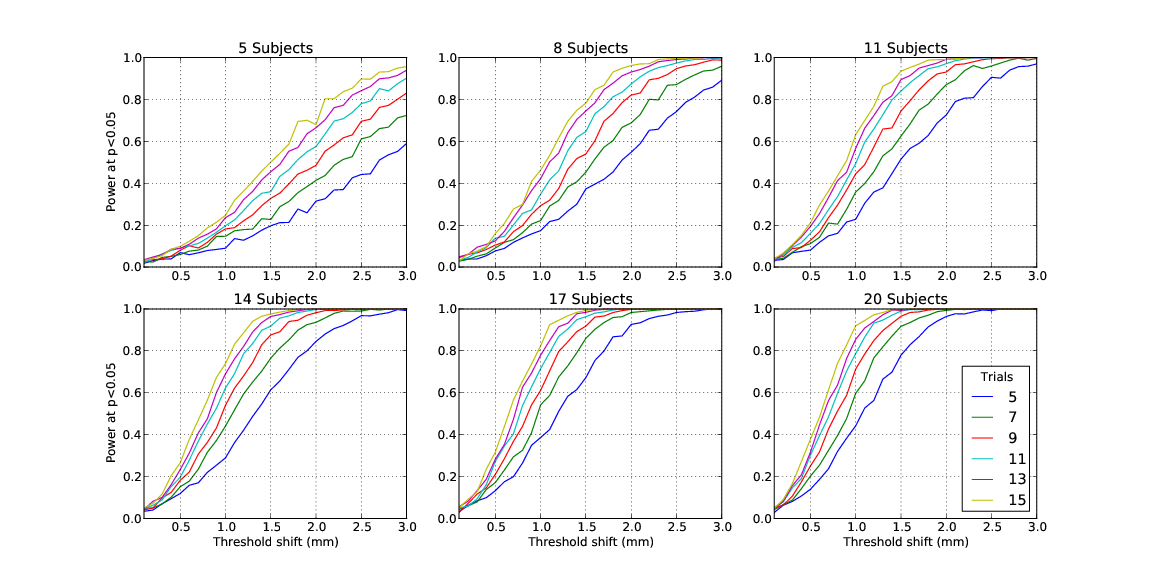
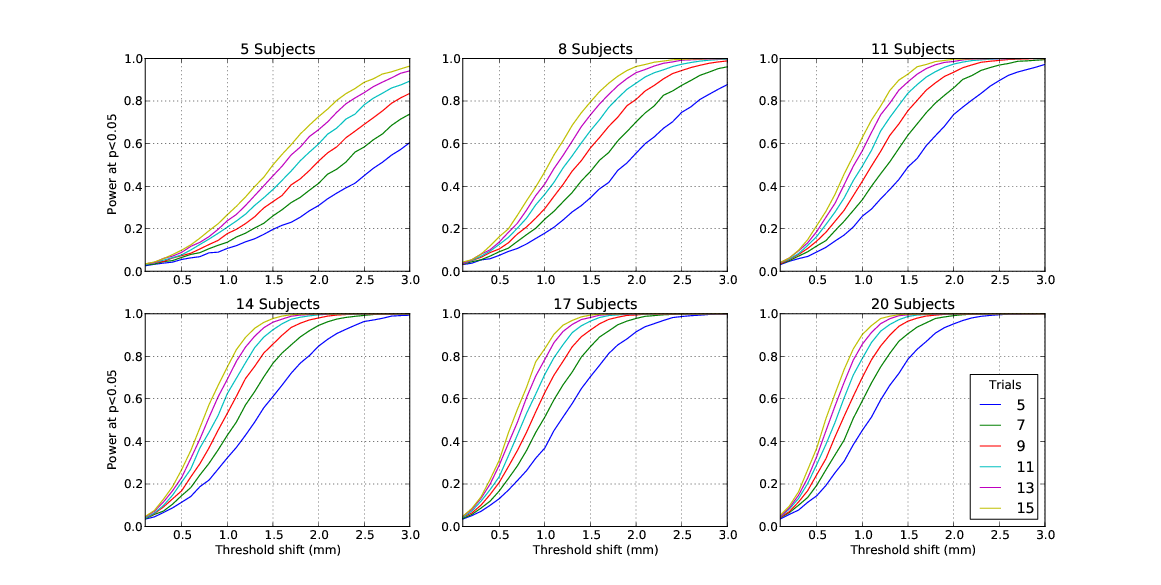
10000 sims per config

diff --git a/sims.py b/sims.py
@@ -16,7 +16,7 @@ from scipy.stats import ttest_rel
 S = arange(5, 21, 3)        # number of subjects
 N = arange(5, 16, 2)        # trials per position
 E = arange(0.1, 3.1, 0.1)   # threshold shift (mm)
-X = 1000;                   # number of experiments
+X = 10000;                  # number of experiments per config
 
 nsims = len(S)*len(N)*len(E)*X
 i_count = 0
